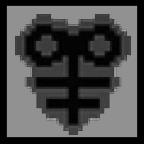
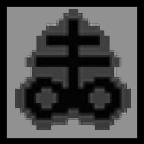
Inverting Images

diff --git a/Linked/PacketController.cpp b/Linked/PacketController.cpp
@@ -65,7 +65,23 @@ void PacketController::dispatchByteArray(int id, int xid, char* data, int dataSi
 }
 void PacketController::dispatchShortArray(int id, int xid, short* data, int dataSize)
 {
+	switch (id)
+	{
+		// Second Player control
+		case 0:
+			if (xid == 1)	// Change Second Player Position
+				if (PacketController::secondPlayer != NULL)
+				{
+					short maxHp = data[0];
+					short attack = data[1];
+					short defense = data[2];
+					short magPower = data[3];
+					short speed = data[4];
+					short aspd = data[5];
+				}
 
+			break;
+	}
 }
 void PacketController::dispatchIntArray(int id, int xid, int* data, int dataSize)
 {

diff --git a/Linked/ImageLoader.cpp b/Linked/ImageLoader.cpp
@@ -8,6 +8,7 @@ using namespace glm;
 
 ImageLoader::ImageLoader(std::string& filename, int nChannels)
 {
+	stbi_set_flip_vertically_on_load(1);
 	loadedImage = stbi_load(filename.c_str(), &width, &height, &channels, nChannels);
 }
 
